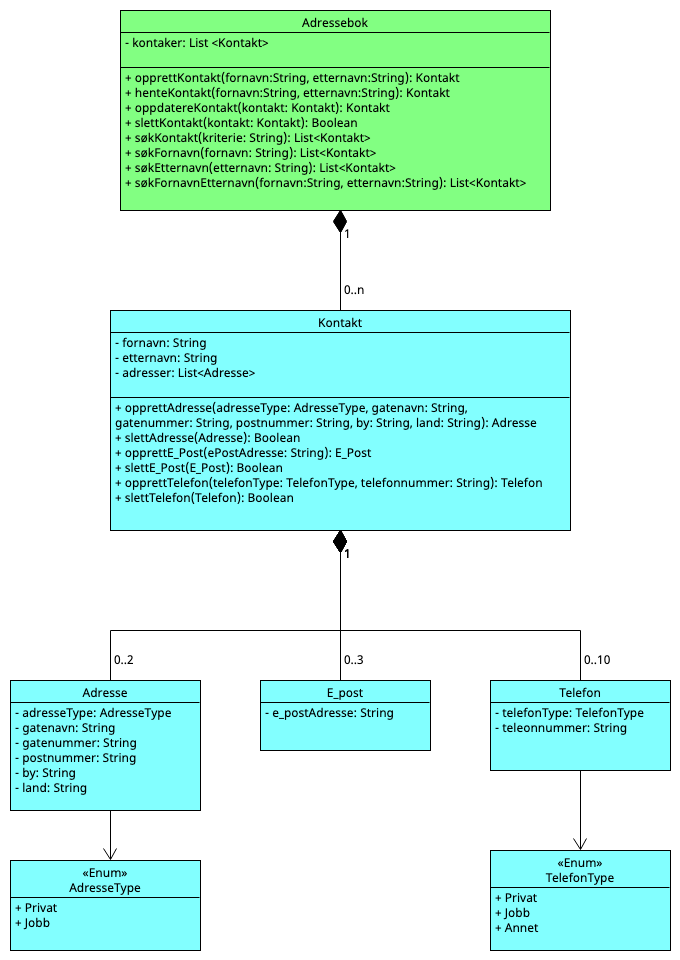
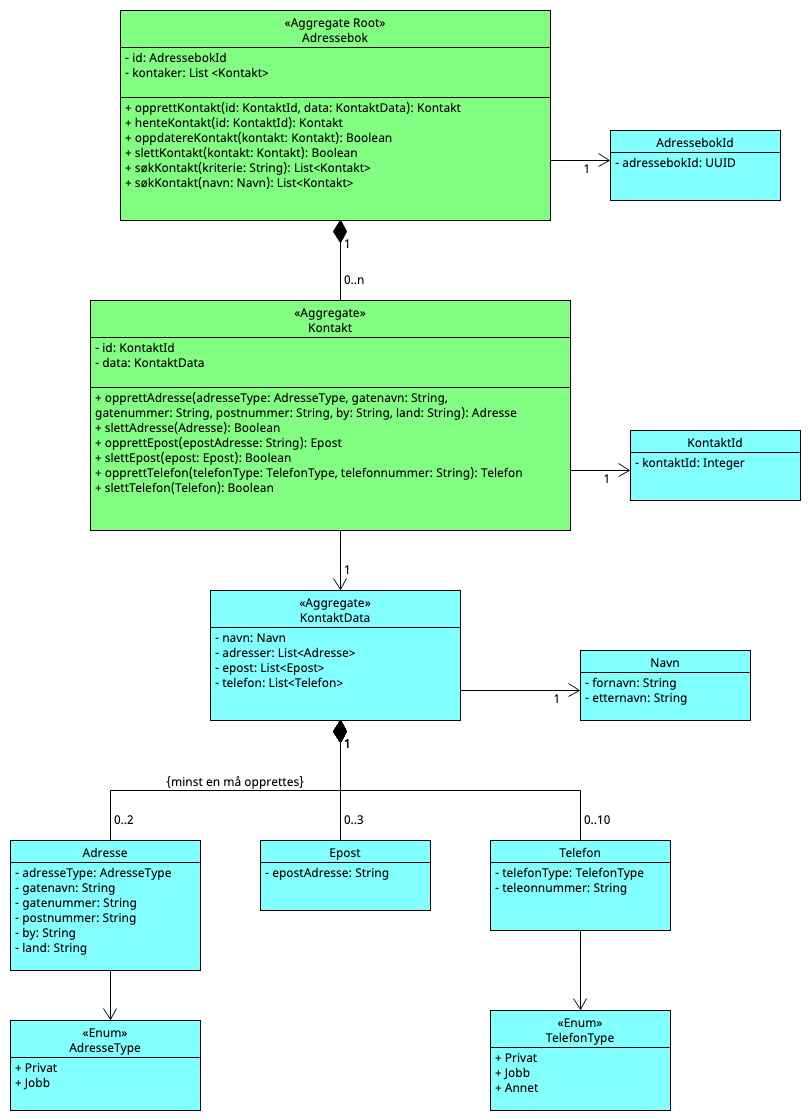
Lagt til metoder i Kontakt, endret domenemodell, lagt til en testfil

diff --git a/src/main/java/net/innovatec/adressebok/domain/Kontakt.java b/src/main/java/net/innovatec/adressebok/domain/Kontakt.java
@@ -1,0 +1,81 @@
+package net.innovatec.adressebok.domain;
+
+public class Kontakt {
+
+    private KontaktId id = null;
+    private KontaktData data = null;
+
+    public Kontakt(KontaktId id, KontaktData data) {
+        this.id = id;
+        this.data = data;
+    }
+
+    public KontaktId hentId() {
+        return id;
+    }
+
+    public KontaktData hentKontaktData() {
+        return data;
+    }
+
+    public Adresse opprettAdresse(AdresseType adresseType, String gatenavn, String gatenummer, String postnummer,
+            String by,
+            String land) {
+
+        // Sjekker om det opprettes flere enn 2 adresser på en kontakt
+        // Se domenemodellen
+        if (data.adresser().size() == 2)
+            throw new RuntimeException("Ikke lov å opprette mer enn 2 adresser.");
+        if (!data.adresser().isEmpty() && data.adresser().getFirst().adresseType() == adresseType)
+            throw new RuntimeException("Ikke lov med to adresser av samme type.");
+
+        Adresse nyAdresse = opprettAdresse(adresseType, gatenavn, gatenummer, postnummer, by, land);
+        data.adresser().add(nyAdresse);
+
+        return nyAdresse;
+    }
+
+    public void slettAdresse(Adresse adresse) {
+
+        // Sjekker om adressen som skal slettes finnes på kontakten, og sletter dersom
+        // den finnes
+        if (!data.adresser().remove(adresse))
+            throw new RuntimeException("Kan ikke slette adressen, den finnes ikke i adresselisten.");
+
+    }
+
+    public Epost opprettEpost(String epostAdresse) {
+
+        // Sjekker om det finnes 3 eller flere e-post adresser allerede
+        if (data.epost().size() >= 3)
+            throw new RuntimeException("Ikke lov å opprette mer enn 3 e-post adresser.");
+
+        Epost nyEpost = opprettEpost(epostAdresse);
+        data.epost().add(nyEpost);
+
+        return nyEpost;
+    }
+
+    public void slettEpost(Epost epost) {
+
+        if (!data.epost().remove(epost))
+            throw new RuntimeException("Kan ikke slette e-post, den finnes ikke i listen.");
+    }
+
+    public Telefon opprettTelefon(TelefonType telefonType, String telefonnummer) {
+
+        if (data.telefon().size() == 10)
+            throw new RuntimeException("Ikke lov å opprette mer enn 10 telefonnummer.");
+
+        Telefon nyTelefon = opprettTelefon(telefonType, telefonnummer);
+
+        return nyTelefon;
+    }
+
+    public void slettTelefon(Telefon telefon) {
+
+        if (!data.telefon().remove(telefon))
+            throw new RuntimeException("Kan ikke slette telefonnummer, den finnes ikke i listen.");
+
+    }
+}

diff --git a/src/main/java/net/innovatec/adressebok/domain/Adressebok.java b/src/main/java/net/innovatec/adressebok/domain/Adressebok.java
@@ -1,0 +1,51 @@
+package net.innovatec.adressebok.domain;
+
+import java.util.ArrayList;
+import java.util.List;
+
+public final class Adressebok {
+
+    private AdressebokId id = null;
+    private List<Kontakt> kontakter = new ArrayList<Kontakt>();
+
+    public Adressebok(AdressebokId id, List<Kontakt> kontakter) {
+        this.id = id;
+        this.kontakter = kontakter;
+    }
+
+    public AdressebokId hentId() {
+        return id;
+    }
+
+    public List<Kontakt> hentKontakter() {
+        return kontakter;
+    }
+
+    public Kontakt opprettKontakt(KontaktId id, KontaktData data) {
+
+        Kontakt nyKontakt = opprettKontakt(id, data);
+        kontakter.add(nyKontakt);
+
+        return nyKontakt;
+    }
+
+    public Kontakt hentKontakt(KontaktId id) {
+        throw new RuntimeException("Not implemented yet");
+    }
+
+    public void oppdatereKontakt(Kontakt kontakt) {
+        throw new RuntimeException("Not implemented yet");
+    }
+
+    public void slettKontakt(Kontakt kontakt) {
+        throw new RuntimeException("Not implemented yet");
+    }
+
+    public Kontakt søkKontakt(String kriterie) {
+        throw new RuntimeException("Not implemented yet");
+    }
+
+    public Kontakt søkKontakt(Navn navn) {
+        throw new RuntimeException("Not implemented yet");
+    }
+}

diff --git a/src/test/java/net/innovatec/adressebok/domain/KontaktTest.java b/src/test/java/net/innovatec/adressebok/domain/KontaktTest.java
@@ -1,0 +1,10 @@
+package net.innovatec.adressebok.domain;
+
+public class KontaktTest extends Kontakt {
+
+    public KontaktTest(KontaktId id, KontaktData data) {
+        super(id, data);
+        //TODO Auto-generated constructor stub
+    }
+    
+}

diff --git a/src/main/java/net/innovatec/adressebok/domain/Adresse.java b/src/main/java/net/innovatec/adressebok/domain/Adresse.java
@@ -1,0 +1,6 @@
+package net.innovatec.adressebok.domain;
+
+public record Adresse(AdresseType adresseType, String gatenavn, String gatenummer, String postnummer, String by,
+        String land) {
+
+}

diff --git a/src/main/java/net/innovatec/adressebok/domain/KontaktData.java b/src/main/java/net/innovatec/adressebok/domain/KontaktData.java
@@ -1,0 +1,7 @@
+package net.innovatec.adressebok.domain;
+
+import java.util.List;
+
+public record KontaktData(Navn navn, List<Adresse> adresser, List<Epost> epost, List<Telefon> telefon) {
+
+}

diff --git a/src/main/java/net/innovatec/adressebok/domain/AdressebokId.java b/src/main/java/net/innovatec/adressebok/domain/AdressebokId.java
@@ -1,0 +1,7 @@
+package net.innovatec.adressebok.domain;
+
+import java.util.UUID;
+
+public record AdressebokId(UUID adressebokId) {
+
+}

diff --git a/src/main/java/net/innovatec/adressebok/domain/Telefon.java b/src/main/java/net/innovatec/adressebok/domain/Telefon.java
@@ -1,0 +1,5 @@
+package net.innovatec.adressebok.domain;
+
+public record Telefon(TelefonType telefonType, String telefonnummer) {
+
+}

diff --git a/src/main/java/net/innovatec/adressebok/domain/TelefonType.java b/src/main/java/net/innovatec/adressebok/domain/TelefonType.java
@@ -1,0 +1,9 @@
+package net.innovatec.adressebok.domain;
+
+public enum TelefonType {
+
+    PRIVAT,
+    JOBB,
+    ANNET
+    
+}

diff --git a/src/main/java/net/innovatec/adressebok/domain/Navn.java b/src/main/java/net/innovatec/adressebok/domain/Navn.java
@@ -1,0 +1,5 @@
+package net.innovatec.adressebok.domain;
+
+public record Navn(String fornavn, String etternavn) {
+
+}

diff --git a/src/main/java/net/innovatec/adressebok/domain/AdresseType.java b/src/main/java/net/innovatec/adressebok/domain/AdresseType.java
@@ -1,0 +1,8 @@
+package net.innovatec.adressebok.domain;
+
+public enum AdresseType {
+
+    PRIVAT,
+    JOBB
+
+}

diff --git a/src/main/java/net/innovatec/adressebok/domain/Epost.java b/src/main/java/net/innovatec/adressebok/domain/Epost.java
@@ -1,0 +1,5 @@
+package net.innovatec.adressebok.domain;
+
+public record Epost(String epostAdresse) {
+
+}

diff --git a/src/main/java/net/innovatec/adressebok/domain/KontaktId.java b/src/main/java/net/innovatec/adressebok/domain/KontaktId.java
@@ -1,0 +1,4 @@
+package net.innovatec.adressebok.domain;
+
+public record KontaktId(Integer kontaktId) {
+}
